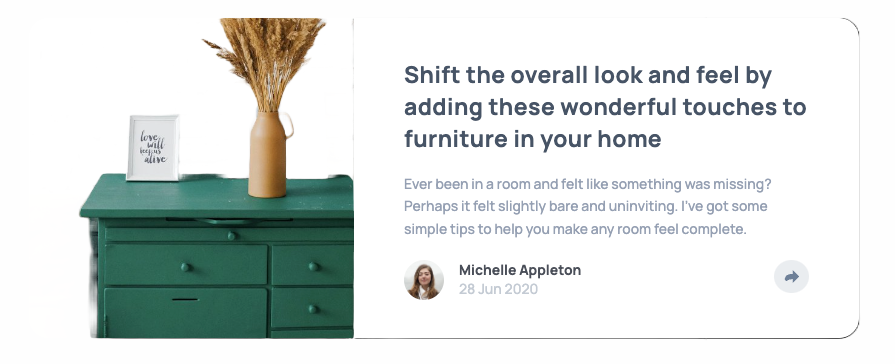
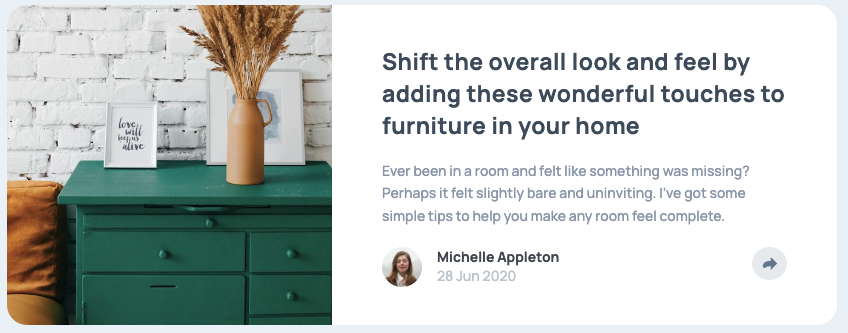
Changed cards layout

diff --git a/styles/styles.scss b/styles/styles.scss
@@ -27,27 +27,27 @@ h1 {
 .cards-container {
   height: 100%;
   display: flex;
-  align-items: center;
+  align-items: flex-start;
   flex-wrap: wrap;
   gap: 10px;
-  justify-content: space-around;
+  // justify-content: space-around;
 }
 
 
 
 .card {
-  width: 300px;
-  height: 500px;
+  min-width: 250px;
+  height: 300px;
   border: 2px solid white;  
   display: flex;
-  flex: 0 1 auto;
+  flex: 1 1 auto;
   justify-content: center;
   flex-direction: column;
   margin: 10px;
   transition: 0.2s;
   h2 {
     flex: 0 1 auto;
-    margin: 10px 0 10px 0;  
+    margin: 10px 10px 0 10px;  
   }
   .divider {
     flex: 0 1 auto;
@@ -62,8 +62,9 @@ h1 {
     align-items: center;
   }
   img {
-    width: 200px;
-    height: auto;
+    padding: 20px;
+    width: auto;
+    height: 250px;
     filter: grayscale(1);
     transition: 0.8s;
   }

diff --git a/styles/styles.css b/styles/styles.css
@@ -25,18 +25,17 @@ h1 {
 .cards-container {
   height: 100%;
   display: flex;
-  align-items: center;
+  align-items: flex-start;
   flex-wrap: wrap;
   gap: 10px;
-  justify-content: space-around;
 }
 
 .card {
-  width: 300px;
-  height: 500px;
+  min-width: 250px;
+  height: 300px;
   border: 2px solid white;
   display: flex;
-  flex: 0 1 auto;
+  flex: 1 1 auto;
   justify-content: center;
   flex-direction: column;
   margin: 10px;
@@ -44,7 +43,7 @@ h1 {
 }
 .card h2 {
   flex: 0 1 auto;
-  margin: 10px 0 10px 0;
+  margin: 10px 10px 0 10px;
 }
 .card .divider {
   flex: 0 1 auto;
@@ -59,8 +58,9 @@ h1 {
   align-items: center;
 }
 .card img {
-  width: 200px;
-  height: auto;
+  padding: 20px;
+  width: auto;
+  height: 250px;
   filter: grayscale(1);
   transition: 0.8s;
 }

diff --git a/article-preview-component/styles/styles.scss b/article-preview-component/styles/styles.scss
@@ -130,10 +130,12 @@ footer {
 @keyframes fadefrombottom {
   0% {
     opacity: 0;
-    transform: translateY(120%);
+    transform: translateY(150%);
   }
   40% {
     opacity: 0.3;
   }
-  100% { opacity: 1 }
+  100% { 
+    opacity: 1 
+  }
 }

diff --git a/article-preview-component/styles/styles.css b/article-preview-component/styles/styles.css
@@ -118,7 +118,7 @@ footer {
 @keyframes fadefrombottom {
   0% {
     opacity: 0;
-    transform: translateY(120%);
+    transform: translateY(150%);
   }
   40% {
     opacity: 0.3;
